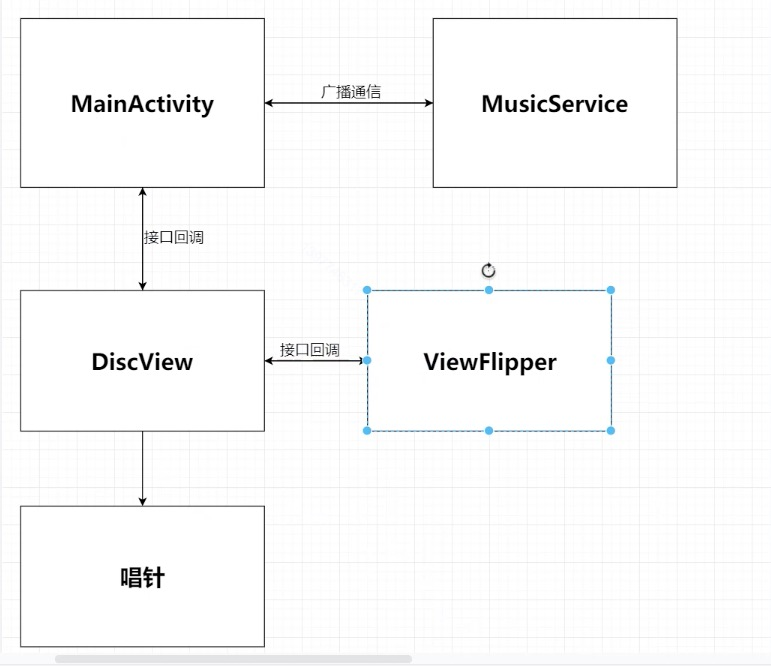
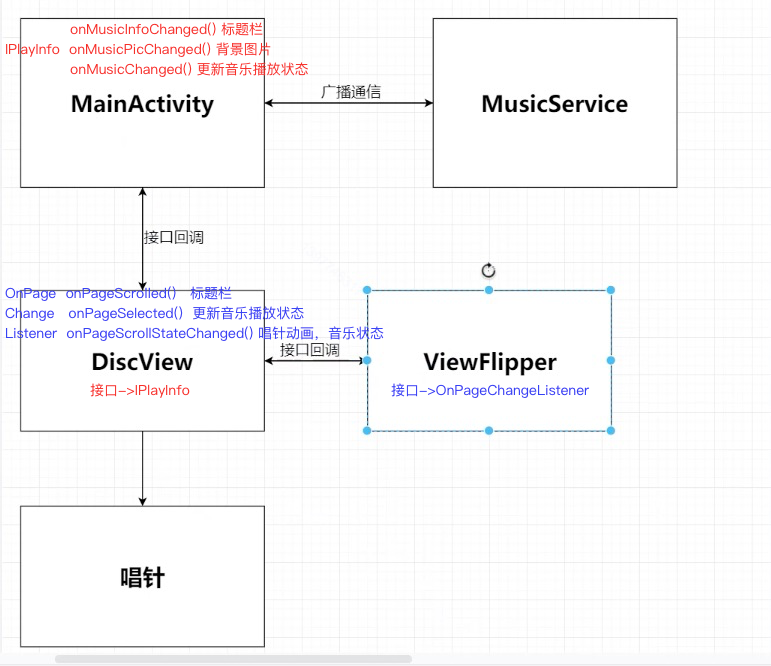
add comments

diff --git a/app/src/main/java/com/sty/ne/music/player/view/DiscView.java b/app/src/main/java/com/sty/ne/music/player/view/DiscView.java
@@ -30,6 +30,9 @@ import java.lang.annotation.RetentionPolicy;
 import java.util.ArrayList;
 import java.util.List;
 
+/**
+ * 组合控件：ImageView,ViewFlipper,ImageView
+ */
 public class DiscView extends RelativeLayout {
     private ImageView mIvNeedle;
     private MyViewFlipper myViewFlipper;
@@ -136,6 +139,7 @@ public class DiscView extends RelativeLayout {
         ViewCalculateUtil.setViewRelativeLayoutParam(mIvNeedle, UIUtils.NEEDLE_WIDTH, UIUtils.NEEDLE_HEIGHT,
                 -UIUtils.NEEDLE_MARGIN_TOP, 0, UIUtils.NEEDLE_MARGIN_LEFT,
                 0, false);
+        //唱针图片旋转中心
         int pivotX = UIUtils.getInstance().getWidth(UIUtils.NEEDLE_PIVOT_X);
         int pivotY = UIUtils.getInstance().getHeight(UIUtils.NEEDLE_PIVOT_Y);
 
@@ -211,7 +215,7 @@ public class DiscView extends RelativeLayout {
         myViewFlipper.setOnPageChangeListener(new MyViewFlipper.OnPageChangeListener() {
             @Override
             public void onPageScrolled(int position, float positionOffset, float positionOffsetPixels) {
-                Log.i("滑动", "" + positionOffsetPixels);
+//                Log.i("滑动", "" + positionOffsetPixels);
                 if(positionOffsetPixels > 0) {
                     //上一曲
                     int previous = myViewFlipper.getPreviousItem();
@@ -293,7 +297,7 @@ public class DiscView extends RelativeLayout {
                 width, width, marginTop, 0, 0, 0);
     }
 
-    //得到唱盘背后透明的圆形背景
+    //得到唱盘背后透明的圆形偏白背景
     public Drawable getDiscBlackGroundDrawable() {
         int discSize = UIUtils.getInstance().getWidth(UIUtils.DISC_BG_WIDTH);
         Bitmap bitmapDisc = Bitmap.createScaledBitmap(BitmapFactory.decodeResource(getResources(),
@@ -409,7 +413,7 @@ public class DiscView extends RelativeLayout {
 
     //暂停动画
     private void pauseAnimator() {
-        //播放是暂停动画
+        //播放时暂停动画
         if(needleAnimatorStatus == NeedleAnimatorStatus.IN_NEAR_END) {
             pauseDiscAnimator();
             //唱针往唱盘移动时暂停动画

diff --git a/app/src/main/java/com/sty/ne/music/player/MainActivity.java b/app/src/main/java/com/sty/ne/music/player/MainActivity.java
@@ -305,6 +305,8 @@ public class MainActivity extends AppCompatActivity implements DiscView.IPlayInf
         }
 
         options.inJustDecodeBounds = false;
+        //采样率。采样率为1时即原始大小，为2时，宽高均为原来的1/2，像素数和占用内存数均为原来的1/4.
+        // 采样率一般是2的指数，即1、2、4、8、16…… 通过采用率来缩小图片以减少内存占用（使图像长边可以占满屏幕）
         options.inSampleSize = sample;
         options.inPreferredConfig = Bitmap.Config.RGB_565;
 

diff --git a/README.md b/README.md
@@ -2,7 +2,9 @@
 ### 1. 框架结构图
 ![image](https://github.com/tianyalu/NeMusicPlayer/blob/master/show/frame_event_translate.png)
 ### 2. 说明
-* ImageSwitcher: 用来做整个界面背景图片的切换
-* ViewFlipper: 类似于ViewPager，用来做打碟图片承载View的切换
+* ImageSwitcher: 用来做整个界面背景图片的切换(子控件有且只能有两个ImageView)
+* ViewFlipper: 类似于ViewPager，用来做打碟图片承载View的切换(可添加多个子控件[本例子中其实也只是添加了两个
+子控件]，子控件只有一个时显示，否则不显示)  
+
 ### 3. 示例效果图
 ![image](https://github.com/tianyalu/NeMusicPlayer/blob/master/show/show.gif)
